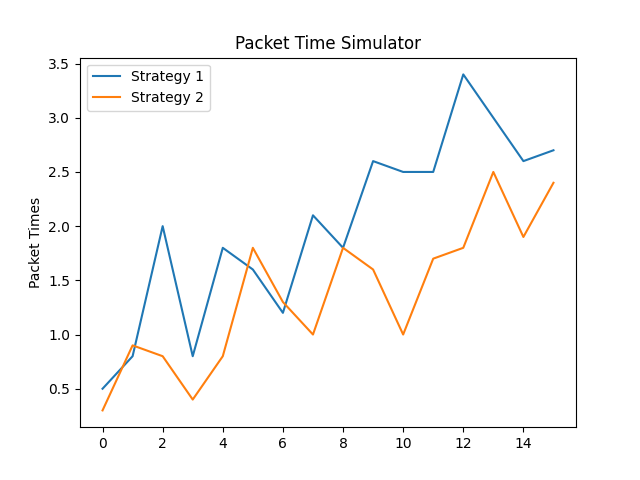
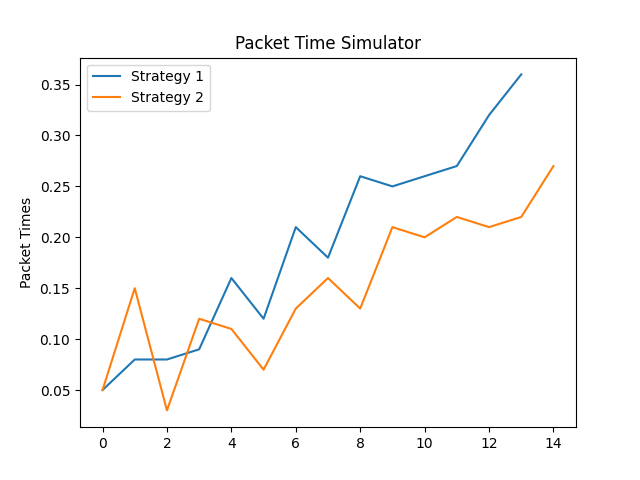
elapsed time

diff --git a/graph.py b/graph.py
@@ -122,9 +122,13 @@ def run_dijkstras(graph: nx.Graph, graph2: nx.Graph, nodeList: List, failed_node
     dj2 = Dijkstra()
 
     #removing the node that failed in this simulated network
+    
     nodeList.remove(failed_node)
+    nodeListUnchanged = nodeList.copy()
+    
     nodeListGraph2 = list(graph2.nodes)
     firstNodes = dict.fromkeys(nodeList)
+    
 
     firstNodesGraph2 = dict.fromkeys(nodeListGraph2)
     
@@ -142,7 +146,7 @@ def run_dijkstras(graph: nx.Graph, graph2: nx.Graph, nodeList: List, failed_node
     print('--------------------------------------')
    # print(time_lists1)
     
-    firstNodes.clear()
+    #firstNodes.clear()
     #testing strategy 2
     #get adjacent nodes to that failed node
     
@@ -163,6 +167,34 @@ def run_dijkstras(graph: nx.Graph, graph2: nx.Graph, nodeList: List, failed_node
     plt.legend(['Strategy 1', 'Strategy 2'])
     plt.savefig("simulated_packet_times.png")
     plt.show()
+
+    
+    source = random.choice(nodeListUnchanged)
+    destination = random.choice(nodeListUnchanged)
+    print(source, destination)
+    start_time = time.time()
+    current_node = source
+    weight_total = 0
+    print(firstNodes)
+    while(current_node != destination):
+        if firstNodes[source] != None:
+            next_node = firstNodes[source][destination]
+            weight = graph.get_edge_data(current_node, next_node)
+            weight_total += int(weight['weight'])
+            current_node = next_node
+            time.sleep(weight_total*0.01)
+            print(weight_total)
+
+    print(weight_total)
+    end_time = time.time()
+
+    elapsed_time1 = end_time - start_time
+    print(f'Elapsed first strategy time: {elapsed_time1}')
+
+
+
+
+
 
 def main():
     """Create graphs by pulling node and weight data from csv, save graph to png"""

diff --git a/Dijkstra.py b/Dijkstra.py
@@ -26,7 +26,6 @@ class Dijkstra(object):
     self.unvisited = None
     self.shortest_nodes = None
     self.shortest_paths = None
-    #self.packet_times = []
     
     self.source = pSource   #insert parameters' data in members
     self.unvisited = pUnvisited
@@ -55,8 +54,7 @@ class Dijkstra(object):
       if len(self.unvisited) != 0: nodes_to_check.remove(next_node)
       current_node = next_node
       
-      #take a currently unvisited node whose path is the shortest and call adjacent_nodes, removes node from unvisited list
-    print(self.packet_times)
+    #take a currently unvisited node whose path is the shortest and call adjacent_nodes, removes node from unvisited list
     return self.shortest_nodes, self.packet_times #to save on memory, the algorithm only returns the first node in the path to any destination
       
   def adjacent_nodes(self, node, graph):
@@ -81,9 +79,9 @@ class Dijkstra(object):
     if( added_cost < self.shortest_paths[neighbor]):
       self.shortest_paths[neighbor] = added_cost
       
-      self.packet_times.append(added_cost*0.1)
+      self.packet_times.append(added_cost*0.01)
 
-      time.sleep(added_cost*0.1)
+      time.sleep(added_cost*0.01)
       if neighbor in nx.neighbors(graph, self.source):
         self.shortest_nodes[neighbor] = neighbor
       else:
